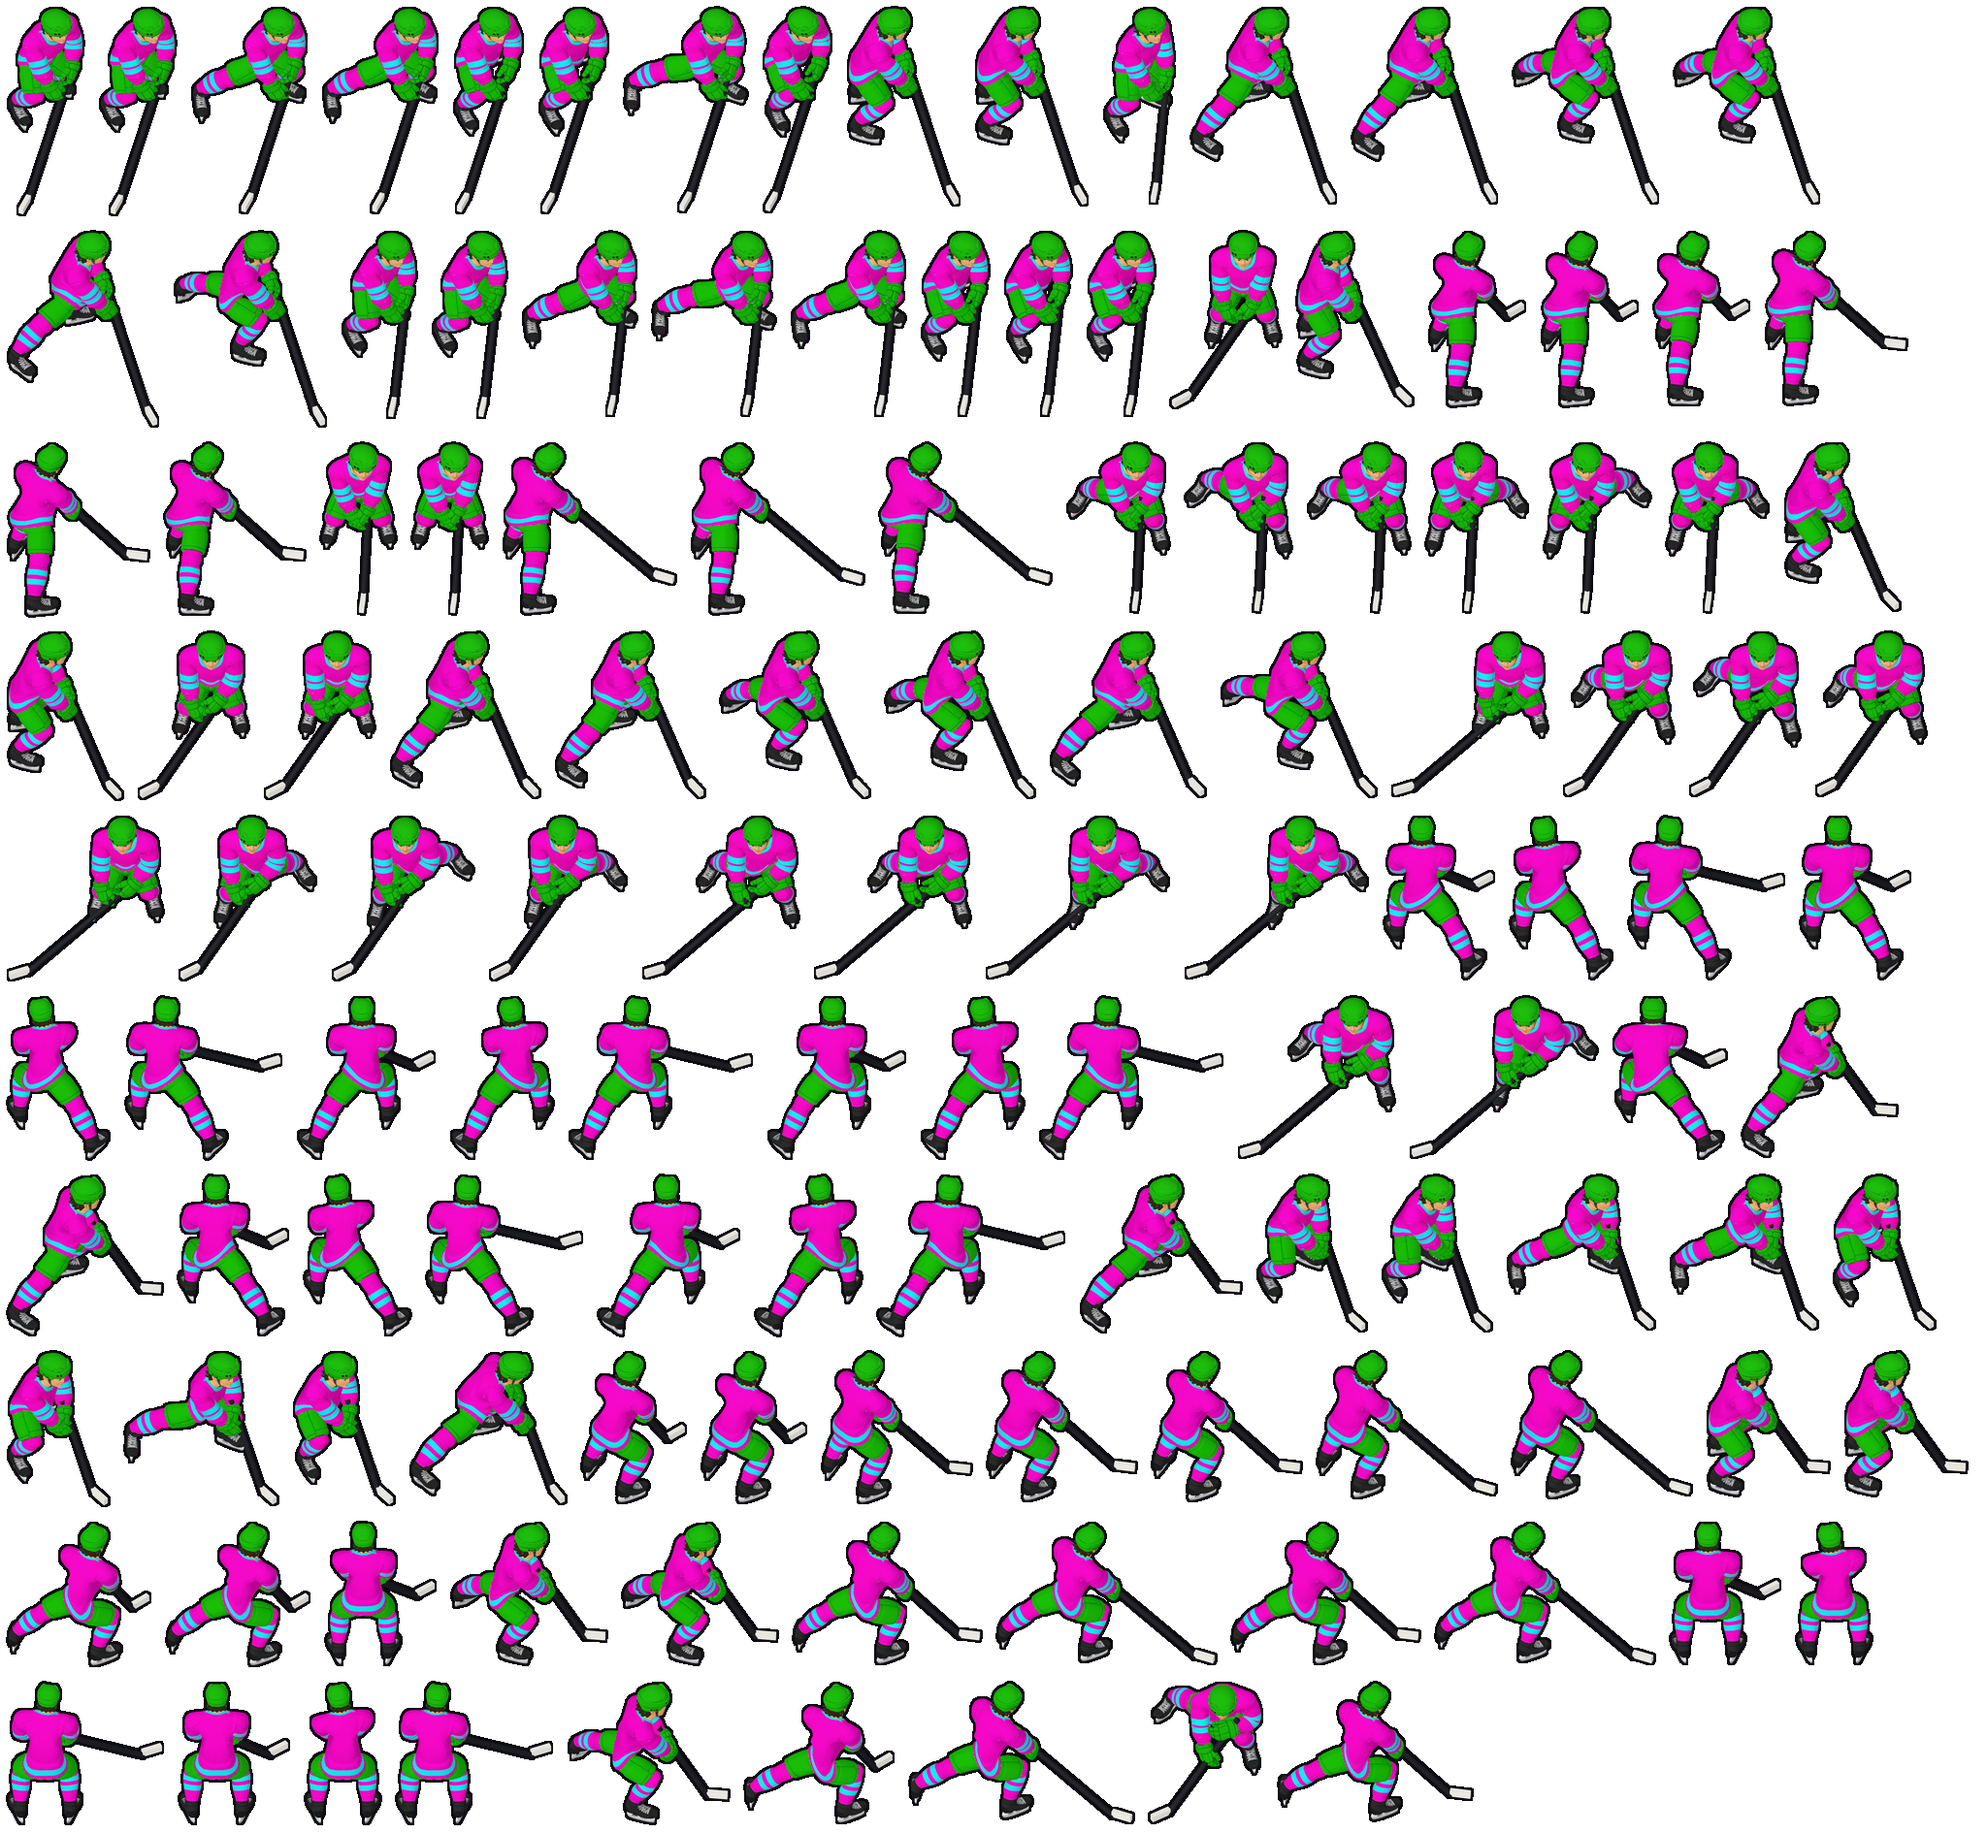
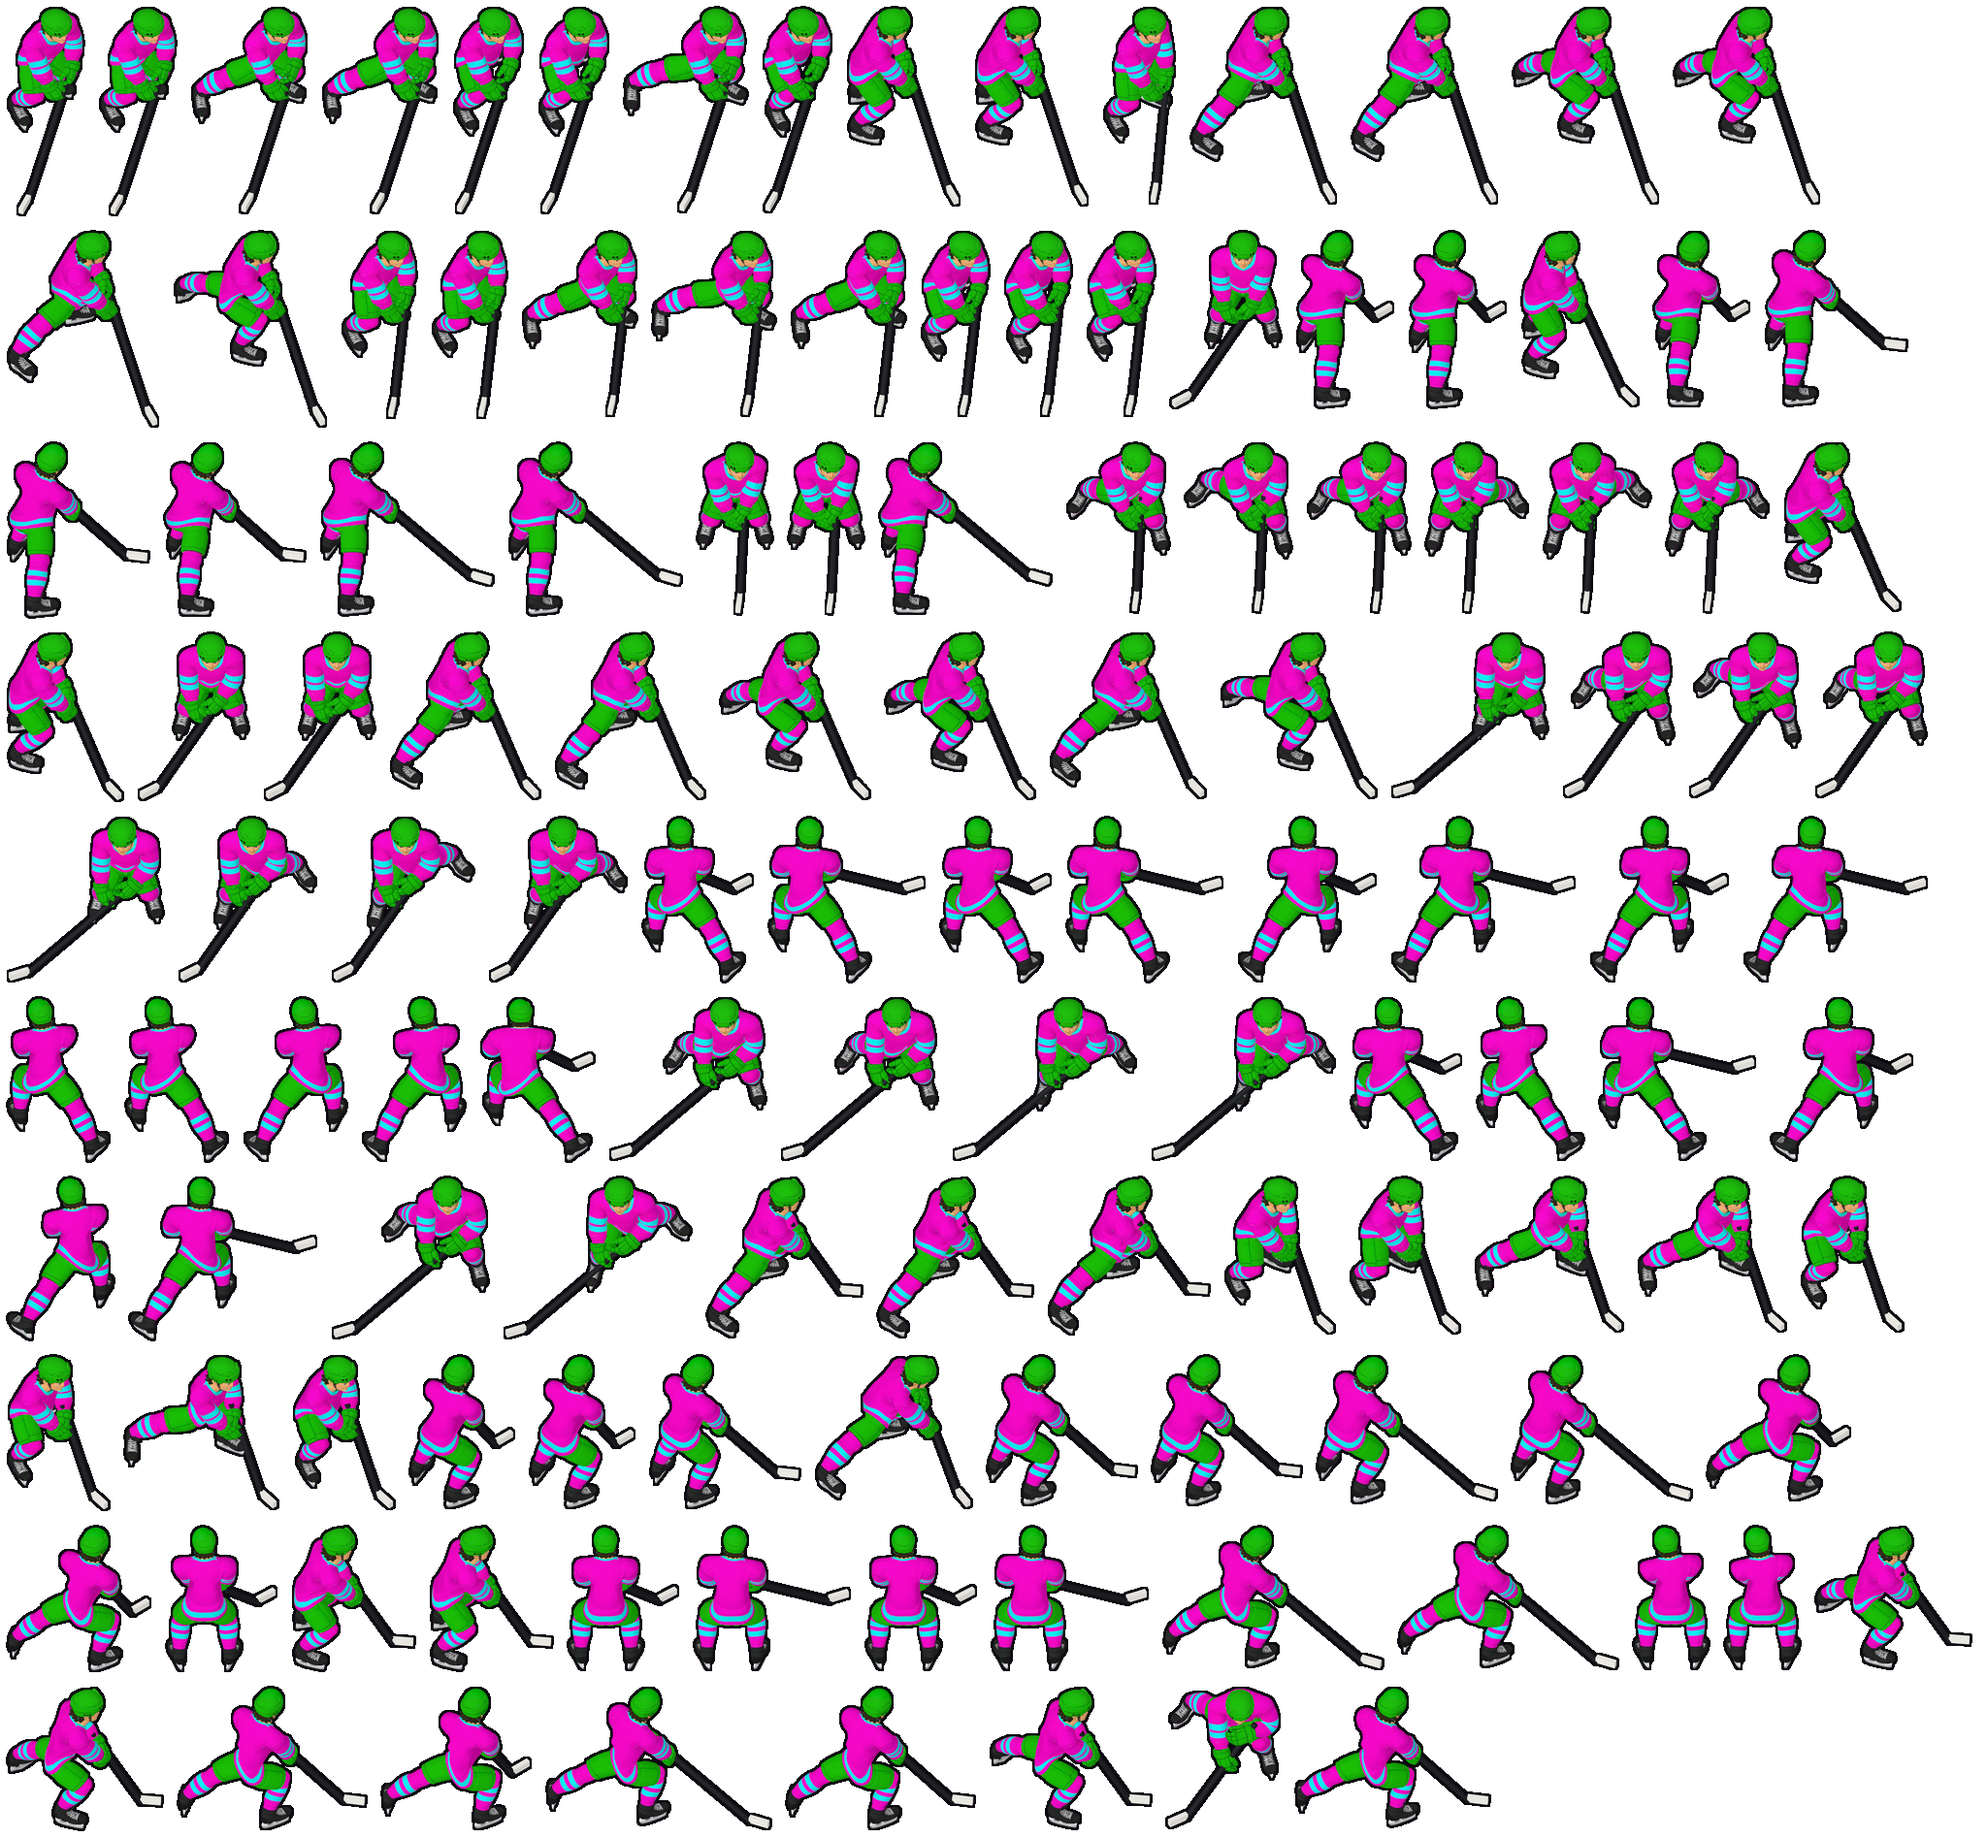
Skaters: rounded helmet shell on rear views (no boxy helmet from behind)
Claude-Session: https://claude.ai/code/session_01C1NNpwu4j5whhZu1LUULbA

diff --git a/tools/skater3d/pose.html b/tools/skater3d/pose.html
@@ -59,6 +59,14 @@ function pose(o){ // o: {phi,u,yaw,lean,low}
   sh.position.copy(butt.clone().add(P).multiplyScalar(.5)); sh.quaternion.setFromUnitVectors(V(0,1,0),P.clone().sub(butt).normalize()); stick.add(sh);
   const bd=V(P.x-T.x,0,P.z-T.z).normalize(); const ba=Math.atan2(bd.x,bd.z);
   const bl=new THREE.Mesh(new THREE.BoxGeometry(0.05,0.075,0.21),m2); bl.position.set(P.x+bd.x*0.09,0.038,P.z+bd.z*0.09); bl.rotation.y=ba; stick.add(bl);
+  // rear view: the model's helmet is boxy, so cover it with a smooth rounded shell (only where the face isn't visible)
+  if(o.yaw>=Math.PI*0.74 && B.HeadTop_End){
+    const hh=wp(B.Head), top=wp(B.HeadTop_End), up=top.clone().sub(hh), H=up.length(); up.normalize();
+    const HS=window.HELM||{rx:.50,ry:.60,rz:.55,up:.06,back:.0};
+    const shell=new THREE.Mesh(new THREE.SphereGeometry(1,40,28),new THREE.MeshStandardMaterial({color:0x00ff00,roughness:.6}));
+    shell.scale.set(H*HS.rx,H*HS.ry,H*HS.rz); shell.position.copy(hh.clone().add(top).multiplyScalar(.5)).add(up.clone().multiplyScalar(H*HS.up)).add(V(0,0,-H*HS.back));
+    shell.quaternion.setFromUnitVectors(V(0,1,0),up); stick.add(shell); window.__H=H;
+  }
   rig.rotation.y=o.yaw; rig.updateMatrixWorld(true);
   return P;
 }
